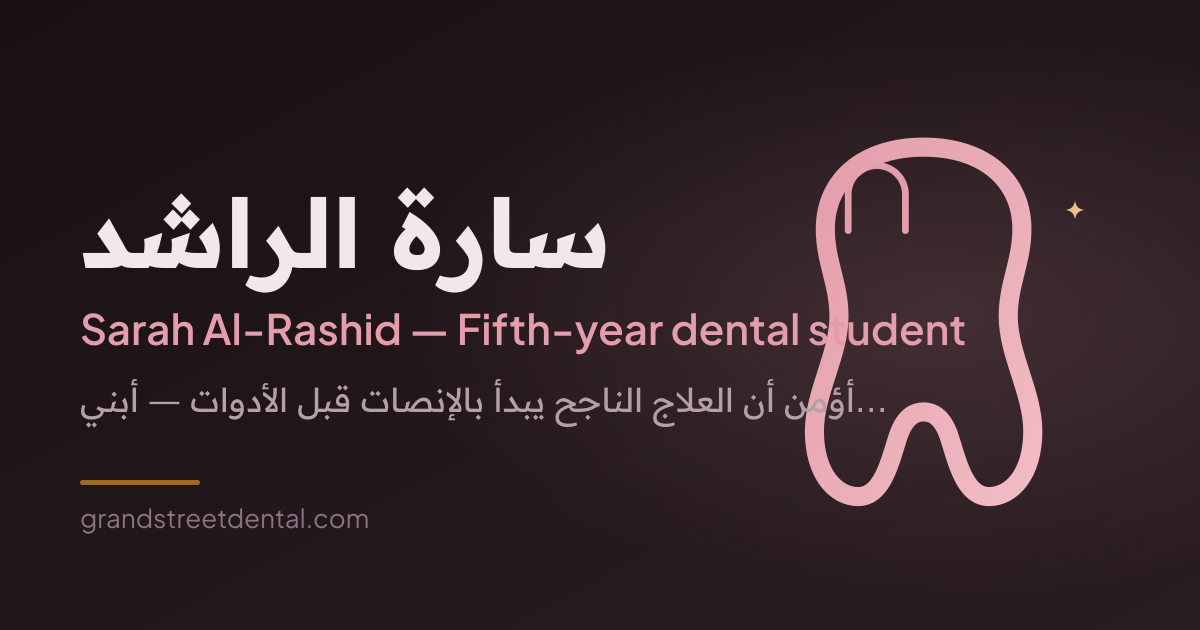
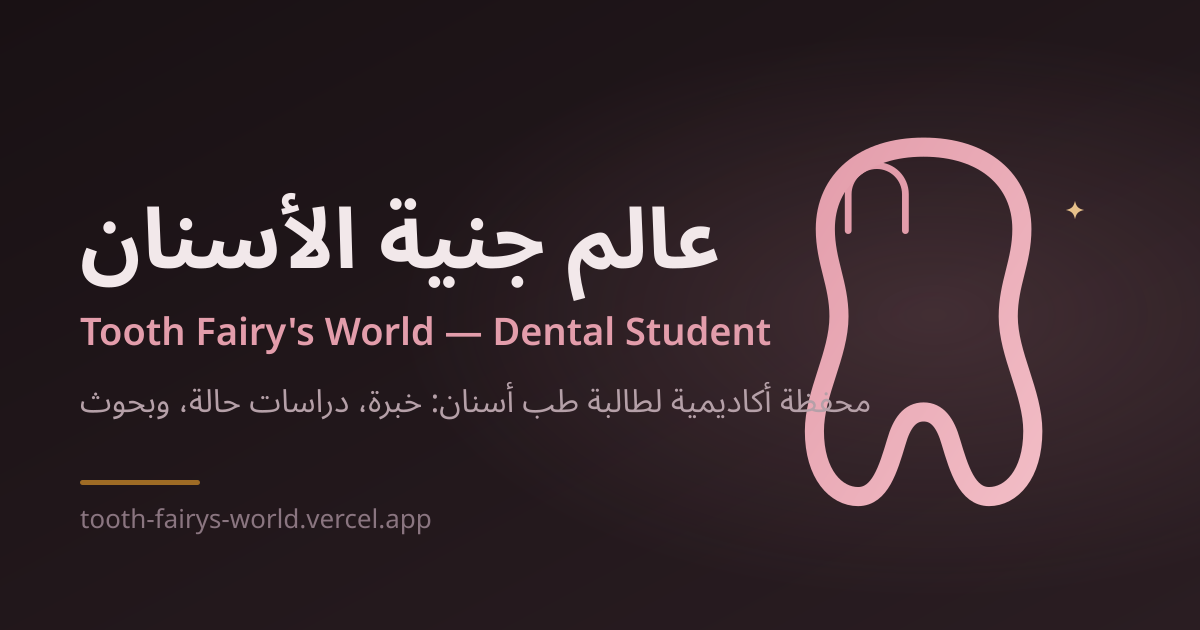
fix: replace old preview image with Tooth Fairy World branding

Changed region(s): [[0.0617, 0.3016, 0.8017, 0.573], [0.0617, 0.6032, 0.74, 0.6937], [0.0617, 0.8143, 0.37, 0.8444]]

diff --git a/src/lib/admin/og.ts b/src/lib/admin/og.ts
@@ -53,12 +53,12 @@ export async function regenerateOgImage(p: OgProfileText): Promise<void> {
   const svg = `<svg width="1200" height="630" xmlns="http://www.w3.org/2000/svg">
   <text x="80" y="268" font-family="Readex Pro" font-weight="700" font-size="${nameSize}"
         fill="#F2E8EA">${esc(nameAr)}</text>
-  <text x="80" y="345" font-family="Plus Jakarta Sans" font-weight="600" font-size="42"
+  <text x="80" y="345" font-family="Plus Jakarta Sans" font-weight="600" font-size="38"
         fill="#E39DAB">${esc(nameEn)}</text>
-  <text x="80" y="412" font-family="Readex Pro" font-weight="400" font-size="33"
+  <text x="80" y="412" font-family="Readex Pro" font-weight="400" font-size="32"
         fill="#B5A0A8">${esc(taglineAr)}</text>
   <text x="80" y="528" font-family="Plus Jakarta Sans" font-weight="400" font-size="26"
-        fill="#8A7580">toothfairysworld.com</text>
+        fill="#8A7580">tooth-fairys-world.vercel.app</text>
 </svg>`;
 
   await sharp(BASE)

diff --git a/src/app/[locale]/layout.tsx b/src/app/[locale]/layout.tsx
@@ -95,7 +95,7 @@ export async function generateMetadata({
       type: "website",
       images: [
         {
-          url: "/images/og-image.png",
+          url: "/images/og-image.png?v=3",
           width: 1200,
           height: 630,
           alt: t("ogTitle"),
@@ -106,6 +106,7 @@ export async function generateMetadata({
       card: "summary_large_image",
       title: t("ogTitle"),
       description: t("ogDescription"),
+      images: ["/images/og-image.png?v=3"],
     },
   };
 }

diff --git a/src/app/[locale]/(site)/cases/[slug]/page.tsx b/src/app/[locale]/(site)/cases/[slug]/page.tsx
@@ -34,7 +34,7 @@ export async function generateMetadata({
       description: pick(entry.summary, locale as Locale),
       images: [
         {
-          url: "/images/og-image.png",
+          url: "/images/og-image.png?v=3",
           alt: pick(entry.title, locale as Locale),
         },
       ],
